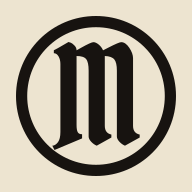
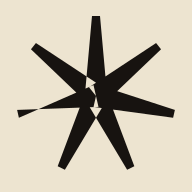
Replace the blackletter M seal with a 7-point star mark
Design pivot: the M felt redundant next to the hero title ("Morpheous"
already spells the name), so the seal moves to a pure-vector 7-point
star with flat-cut ray tips — the point count avoids other symbols'
associations (4pt reads as an AI-sparkle, 5pt is the generic star
cliche, 6pt can read as Star of David, 8pt is the Chaos-symbol count),
and the flat-cut tips echo the square-cap language already used
elsewhere on the site.

Seal.astro is a component swap, so every existing call site (nav bar,
all three divider ornaments) picks up the new mark automatically with
no changes needed at the usage sites.

Note: the handoff's own README states the tips are flat-cut, but the
Seal.astro/favicon.svg files it shipped actually used the sharp-tip
"Baseline" path from the exploration doc, not the "MY PICK: Flat-Cut
Tips" path the same doc's verdict settles on. Used the flat-cut path
to match the stated decision.

Favicon also swaps to the star (still a pure vector path, no font
dependency) and the whole raster set is regenerated from it. Since the
seal no longer needs glyph extraction from a webfont, removed
scripts/extract-favicon-glyph.js and the opentype.js devDependency —
scripts/generate-favicon-assets.js (sharp-based rasterization) is still
all that's needed to regenerate favicon.ico/apple-touch-icon/Android
icons if the mark changes again.

Updated TYPOGRAPHY.md's "four places" rule for Pirata One down to two
[…]

diff --git a/src/styles/theme.css b/src/styles/theme.css
@@ -58,7 +58,7 @@
    <link href="https://fonts.googleapis.com/css2?family=Pirata+One&family=Cinzel:wght@500;600;700&family=EB+Garamond:ital,wght@0,400;0,500;0,600;1,400&family=Inter:wght@400;500;600&display=swap" rel="stylesheet">
 */
 :root {
-  --font-display: 'Pirata One', serif;   /* hero titles / logo only — sparing use */
+  --font-display: 'Pirata One', serif;   /* hero titles / nav wordmark only — sparing use */
   --font-heading: 'Cinzel', serif;       /* h2/h3, rubric-style section labels */
   --font-body: 'EB Garamond', serif;     /* body copy — the "tame" read */
   --font-ui: 'Inter', sans-serif;        /* nav, buttons, meta labels */

diff --git a/FAVICON.md b/FAVICON.md
@@ -1,17 +1,24 @@
 # Favicon — Production Notes
 
-**Status: done.** `public/favicon.svg` bakes in a real vector `<path>` for
-the "M" — no `@font-face` dependency at render time — and the full raster
-set (`favicon.ico`, `apple-touch-icon.png`, Android chrome icons,
-`site.webmanifest`) is generated and wired into `BaseLayout.astro`'s
-`<head>`. The steps below are kept as the reproducible pipeline for
-regenerating everything if the seal mark ever changes.
+**Status: done.** `public/favicon.svg` is the 7-point star seal (flat-cut
+ray tips) as a plain vector `<path>` — no font dependency of any kind, so
+there's no risk of it silently rendering as the wrong glyph anywhere. The
+full raster set (`favicon.ico`, `apple-touch-icon.png`, Android chrome
+icons, `site.webmanifest`) is generated and wired into
+`BaseLayout.astro`'s `<head>`.
+
+The seal mark previously used a blackletter "M" set in the Pirata One
+webfont, which needed a separate `opentype.js` glyph-extraction step
+(`scripts/extract-favicon-glyph.js`) to bake into a font-independent path.
+That script and its `@font-face` risk are gone now that the mark itself
+is pure vector — see `src/components/Seal.astro` for the on-page version
+and `TYPOGRAPHY.md` for why Pirata One no longer appears in the seal at
+all.
 
 ## What's in `public/`
 
-- `favicon.svg` — the seal circle with a vector-path "M" (Blackletter
-  Initial), colors invert for OS-level dark mode via a plain media query
-  (no font needed for that either)
+- `favicon.svg` — the 7-point star, colors invert for OS-level dark mode
+  via a plain media query
 - `favicon.ico` — 16/32/48px, PNG-in-ICO (modern format, works everywhere
   since Windows Vista)
 - `apple-touch-icon.png` — 180×180, flattened onto the Bone & Brass page
@@ -19,49 +26,32 @@ regenerating everything if the seal mark ever changes.
 - `android-chrome-192x192.png` / `android-chrome-512x512.png`
 - `site.webmanifest`
 
-## Why the vector path, not live text
-
-Favicon rendering happens in a more restricted context than a normal
-page — browsers frequently rasterize favicons without reliably loading the
-`@font-face` import, especially in Safari, pinned tabs, bookmarks, and
-OS-level icon caches (Windows tiles, Android home screen, etc.). In the
-worst case, the "M" silently falls back to a generic system serif instead
-of the blackletter glyph, and you won't notice unless you check each
-platform individually. Baking the glyph outline in as a plain `<path>`
-sidesteps the problem entirely.
-
 ## Regenerating (if the seal mark ever changes)
 
-1. **Extract the glyph outline** from the real Pirata One font file:
-   ```bash
-   npm install opentype.js --save-dev   # already a devDependency
-   node scripts/extract-favicon-glyph.js
-   ```
-   Prints a `<path d="...">` — paste it into `favicon.svg`'s `<path class="ink" d="...">`.
-   (The `FONT_URL` inside the script is versioned by Google Fonts and does
-   drift over time — grab the current one from the `@font-face` `src` in
-   `https://fonts.googleapis.com/css2?family=Pirata+One&display=swap` if
-   the script's URL 404s.)
+The star's path lives in two places that need to stay in sync:
+`src/components/Seal.astro` (the on-page version, used in the nav and the
+divider ornaments) and `public/favicon.svg` (the standalone favicon
+version, with the added dark-mode media query). Update the `<path d="...">`
+in both, then regenerate the raster set:
 
-2. **Regenerate the raster set:**
-   ```bash
-   npm install sharp --save-dev   # already a devDependency
-   node scripts/generate-favicon-assets.js
-   ```
-   Rewrites `favicon.ico`, `apple-touch-icon.png`, both Android chrome
-   PNGs, and `site.webmanifest` from the current `favicon.svg`.
+```bash
+npm install sharp --save-dev   # already a devDependency
+node scripts/generate-favicon-assets.js
+```
 
-3. **The `<head>` wiring** in `src/layouts/BaseLayout.astro` doesn't need
-   to change unless you rename a file:
-   ```html
-   <link rel="icon" type="image/svg+xml" href="/favicon.svg" />
-   <link rel="icon" type="image/x-icon" href="/favicon.ico" sizes="16x16 32x32 48x48" />
-   <link rel="apple-touch-icon" sizes="180x180" href="/apple-touch-icon.png" />
-   <link rel="manifest" href="/site.webmanifest" />
-   ```
+This rewrites `favicon.ico`, `apple-touch-icon.png`, both Android chrome
+PNGs, and `site.webmanifest` from the current `favicon.svg`. The `<head>`
+wiring in `src/layouts/BaseLayout.astro` doesn't need to change unless you
+rename a file:
 
-4. **Sanity check on an actual phone** (Android "add to home screen") and
-   Safari (pinned tab / bookmark) — the two places a font-dependent favicon
-   was most likely to have silently failed before this fix, and worth a
-   once-over after any regeneration too. This is the one step that
-   genuinely needs a physical device rather than a browser.
+```html
+<link rel="icon" type="image/svg+xml" href="/favicon.svg" />
+<link rel="icon" type="image/x-icon" href="/favicon.ico" sizes="16x16 32x32 48x48" />
+<link rel="apple-touch-icon" sizes="180x180" href="/apple-touch-icon.png" />
+<link rel="manifest" href="/site.webmanifest" />
+```
+
+Worth a sanity check on an actual phone (Android "add to home screen")
+and Safari (pinned tab / bookmark) after any regeneration, though the
+pure-vector path means there's much less that can silently go wrong there
+than with the old font-based approach.

diff --git a/TYPOGRAPHY.md b/TYPOGRAPHY.md
@@ -4,17 +4,22 @@
 
 | Role | Typeface | CSS variable |
 |---|---|---|
-| Hero title, seal mark, favicon, nav wordmark | **Pirata One** | `--font-display` |
+| Hero title, nav wordmark | **Pirata One** | `--font-display` |
 | All h2/h3 headings, subheadings, nav links, dense doc lists, tags | **Cinzel** | `--font-heading` |
 | Body copy, paragraph text | **EB Garamond** | `--font-body` |
 | UI chrome — buttons, search, meta labels, toolbar text | **Inter** | `--font-ui` |
 
 ## The rule that matters most
 
-**Pirata One (true blackletter) is reserved for exactly four places: the
-hero `<h1>`, the seal/brand mark, the favicon, and the nav bar wordmark.**
-It never appears in body headings, sidebar nav, tags, or anything read at
-a glance rather than paused on.
+**Pirata One (true blackletter) is reserved for exactly two places: the
+hero `<h1>` and the nav bar wordmark.** It never appears in body headings,
+sidebar nav, tags, or anything read at a glance rather than paused on —
+and, as of the seal mark's move to a pure-vector 7-point star (see
+`src/components/Seal.astro`), it no longer appears in the brand mark or
+favicon either. Those needed no lettering at all once the mark stopped
+being a letterform, which incidentally also removed the whole
+font-loading-reliability problem the favicon used to have (see
+FAVICON.md).
 
 This isn't arbitrary — we tested it directly. A single glyph at hero size
 (64px+) reads fine in blackletter. Full words at heading size (20-26px)
@@ -49,8 +54,11 @@ For anyone revisiting this later — these were tested and deliberately
 not chosen, so there's no need to re-litigate them from scratch:
 
 - **UnifrakturMaguntia / UnifrakturCook** — heavier, more traditionally
-  Fraktur than Pirata One. Tested as a seal-mark alternative; rejected in
-  favor of staying with Pirata One for consistency with the hero title.
+  Fraktur than Pirata One. Tested during an earlier round when the seal
+  mark was still a letterform (a blackletter "M"); rejected in favor of
+  staying with Pirata One for consistency with the hero title. The whole
+  question became moot once the seal moved to a lettering-free 7-point
+  star — a later decision than this comparison, kept here for history.
 - **Almendra SC, Metamorphous, IM Fell English SC, Spectral SC** — tested
   as h2/h3 alternatives to Cinzel. Almendra SC was the strongest
   contender, but the decision was to keep Cinzel rather than introduce a
